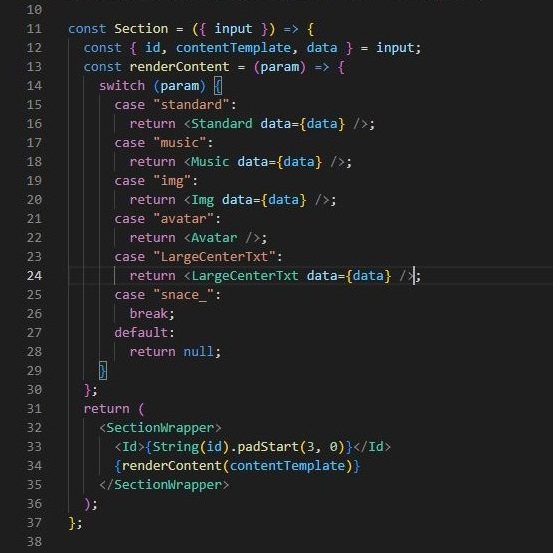
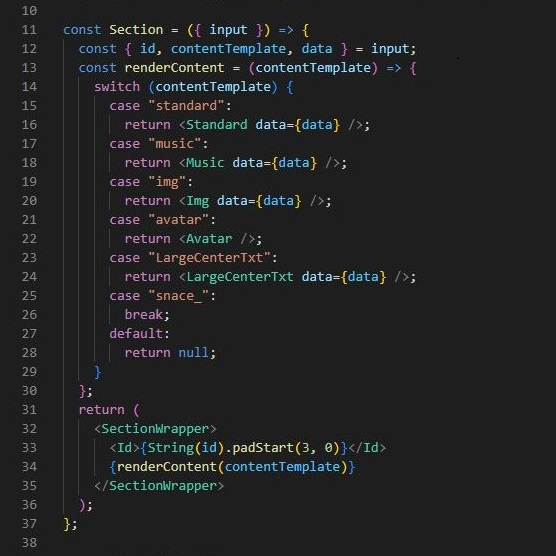
Img template

Changed region(s): [[0.0307, 0.0, 0.7685, 0.9837]]

diff --git a/src/components/Section/Section.js b/src/components/Section/Section.js
@@ -5,6 +5,7 @@ import {
   Avatar,
   Img,
   LargeCenterTxt,
+  CodeLyric,
 } from "../ContentTemplates";
 import { SectionWrapper, Id } from "./Section.styles";
 
@@ -12,6 +13,8 @@ const Section = ({ input }) => {
   const { id, contentTemplate, data } = input;
   const renderContent = (contentTemplate) => {
     switch (contentTemplate) {
+      case "code-lyric":
+        return <CodeLyric data={data} />;
       case "standard":
         return <Standard data={data} />;
       case "music":

diff --git a/src/components/ContentTemplates/CodeLyric/CodeLyric.js b/src/components/ContentTemplates/CodeLyric/CodeLyric.js
@@ -1,0 +1,14 @@
+import React from "react";
+import Terminal from "../../Terminal/Terminal";
+import { Content } from "./CodeLyric.styles";
+
+function CodeLyric({ data }) {
+  const { fontSize, content } = data;
+  return (
+    <Terminal>
+      <Content style={{ fontSize: fontSize }}>user_msg: {content}</Content>
+    </Terminal>
+  );
+}
+
+export default CodeLyric;

diff --git a/src/components/ContentTemplates/index.js b/src/components/ContentTemplates/index.js
@@ -3,3 +3,4 @@ export { default as Music } from "./Music/Music";
 export { default as Img } from "./Img/Img";
 export { default as Avatar } from "./Avatar/Avatar";
 export { default as LargeCenterTxt } from "./LargeCenterTxt/LargeCenterTxt";
+export { default as CodeLyric } from "./CodeLyric/CodeLyric";

diff --git a/src/components/ContentTemplates/Img/Img.js b/src/components/ContentTemplates/Img/Img.js
@@ -4,7 +4,7 @@ import { ImgWrapper } from "./Img.styles";
 function Img({ data }) {
   return (
     <ImgWrapper>
-      <img src={require(`./img/${data.no}`)}></img>
+      <img src={require(`./img/${data.fileName}`)}></img>
     </ImgWrapper>
   );
 }

diff --git a/src/components/ContentTemplates/CodeLyric/CodeLyric.styles.js b/src/components/ContentTemplates/CodeLyric/CodeLyric.styles.js
@@ -1,0 +1,11 @@
+import styled from "styled-components";
+
+export const Content = styled.div`
+  white-space: pre-line;
+  padding: 0 35px;
+  line-height: 1;
+  display: flex;
+  justify-content: center;
+  align-items: center;
+  height: 100%;
+`;
